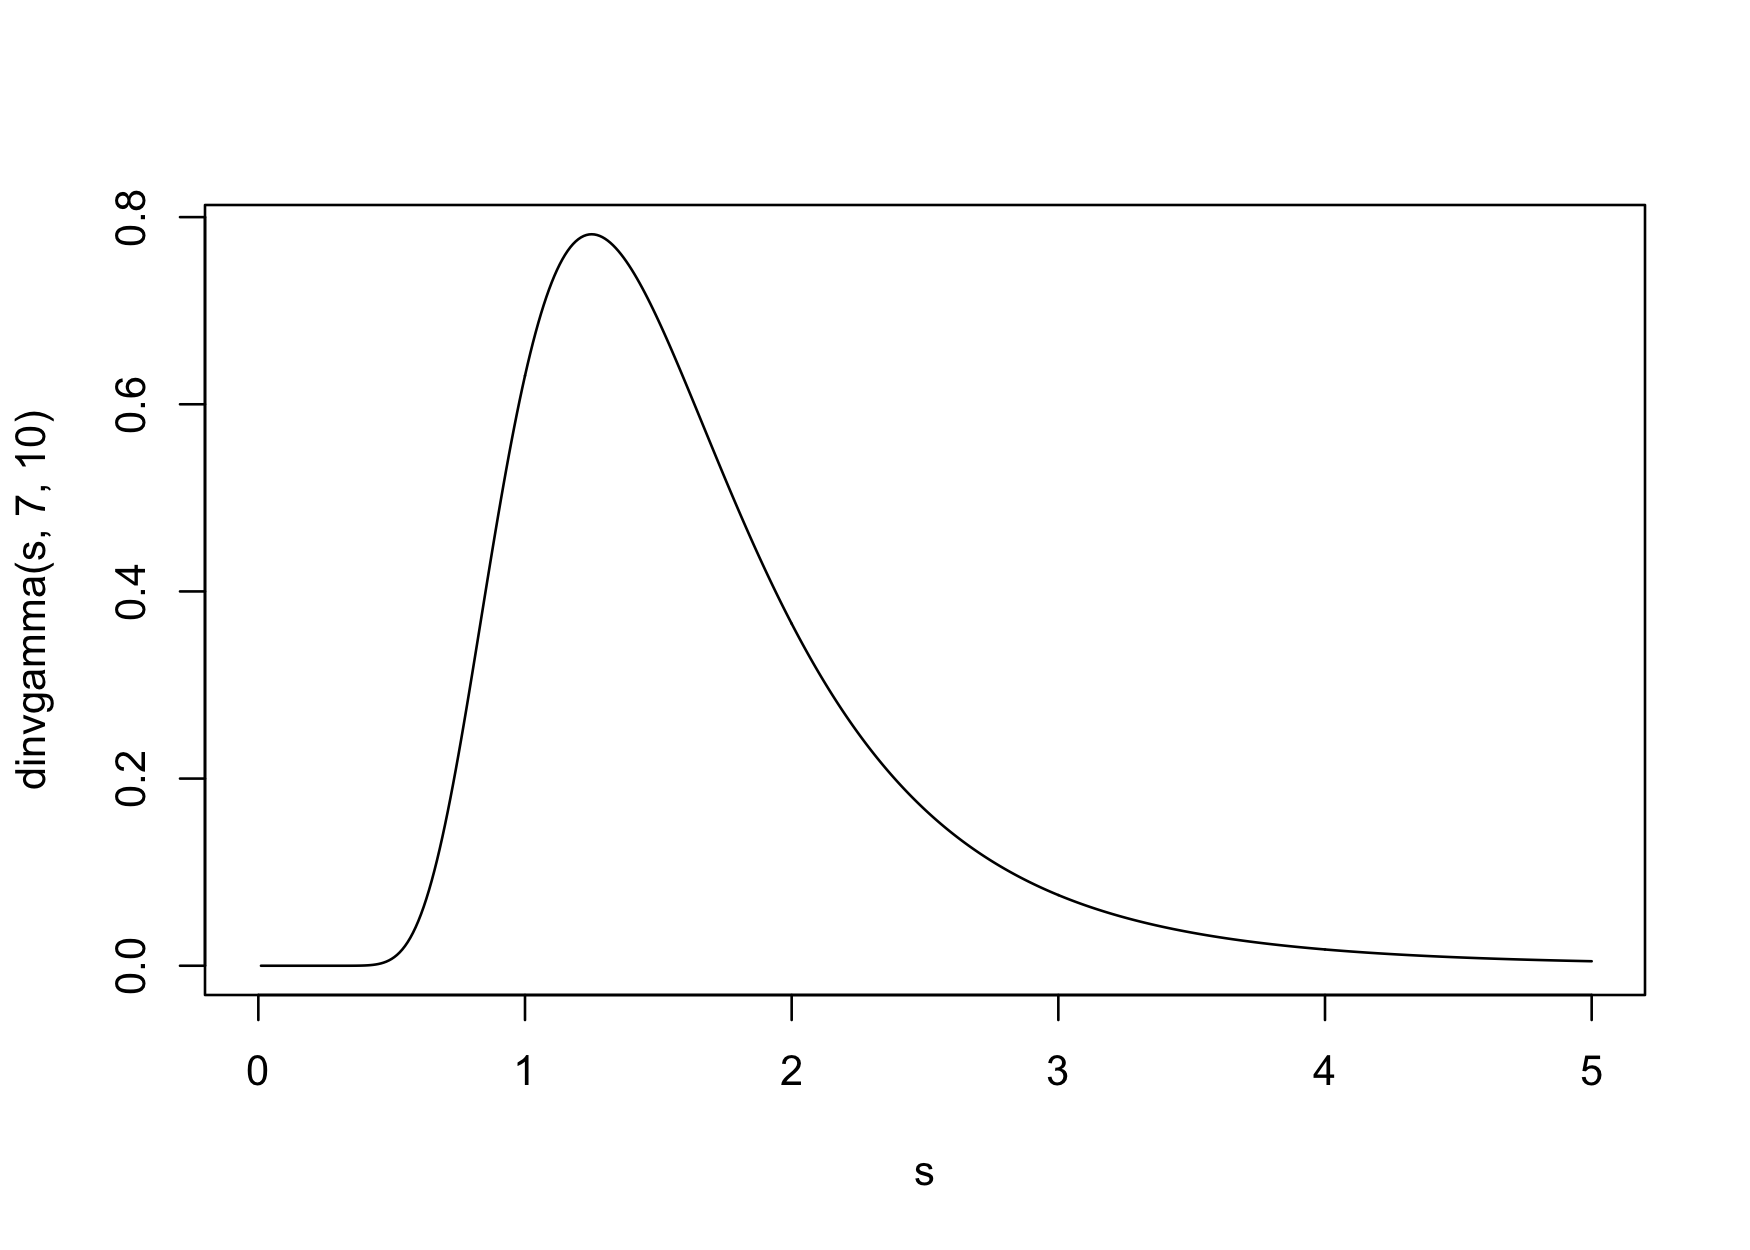
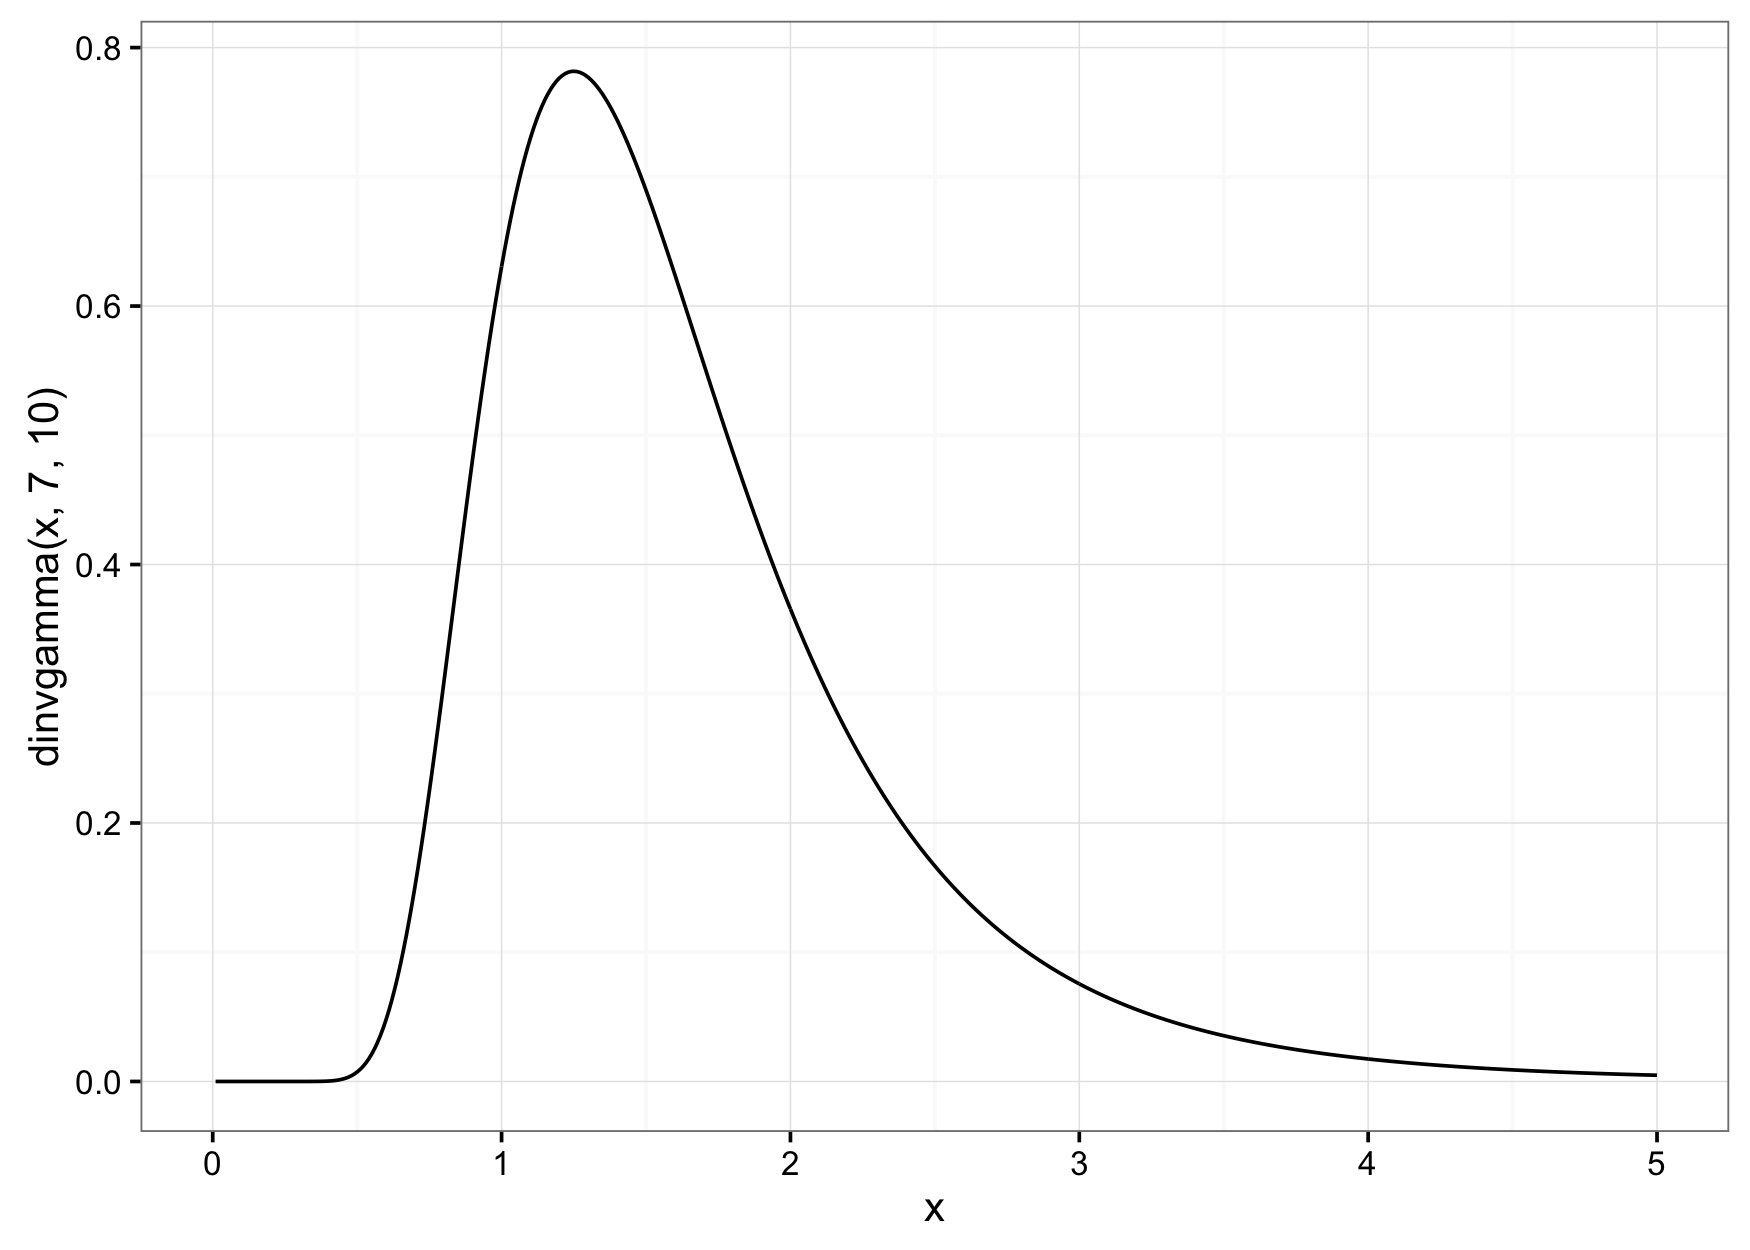
readme update

diff --git a/README.md b/README.md
@@ -29,8 +29,10 @@ The [PDF](https://en.wikipedia.org/wiki/Probability_density_function) (the *f(x)
 
 ``` r
 library(invgamma)
-s <- seq(0, 5, .01)
-plot(s, dinvgamma(s, 7, 10), type = 'l')
+library(ggplot2); theme_set(theme_bw())
+x <- seq(0, 5, .01)
+qplot(x, dinvgamma(x, 7, 10), geom = "line")
+#  Warning: Removed 1 rows containing missing values (geom_path).
 ```
 
 ![](figures/README-unnamed-chunk-4-1.png)
@@ -56,11 +58,27 @@ qinvgamma(p, 7, 10) # = q
 And random number generation can be performed with `rinvgamma()`:
 
 ``` r
+set.seed(1)
 rinvgamma(5, 7, 10)
-#  [1] 1.074881 1.948394 1.231966 1.384182 1.707418
-mean(rinvgamma(1e5, 7, 10) <= 2)
-#  [1] 0.76173
+#  [1] 1.9996157 0.9678268 0.9853343 1.3157697 3.1578177
 ```
+
+`rinvgamma()` can be used to obtain a [Monte Carlo](https://en.wikipedia.org/wiki/Monte_Carlo_method) estimate of the probability given by `pinvgamma()` above:
+
+``` r
+samples <- rinvgamma(1e5, 7, 10)
+mean(samples <= q)
+#  [1] 0.7621
+```
+
+Moreover, we can check the consistency and correctness of the implementation with
+
+``` r
+qplot(samples, geom = "density") + 
+  stat_function(fun = f,  color = "red")
+```
+
+![](figures/README-unnamed-chunk-9-1.png)
 
 The `(d/p/q/r)invchisq()` and `(d/p/q/r)invexp()` functions
 -----------------------------------------------------------
